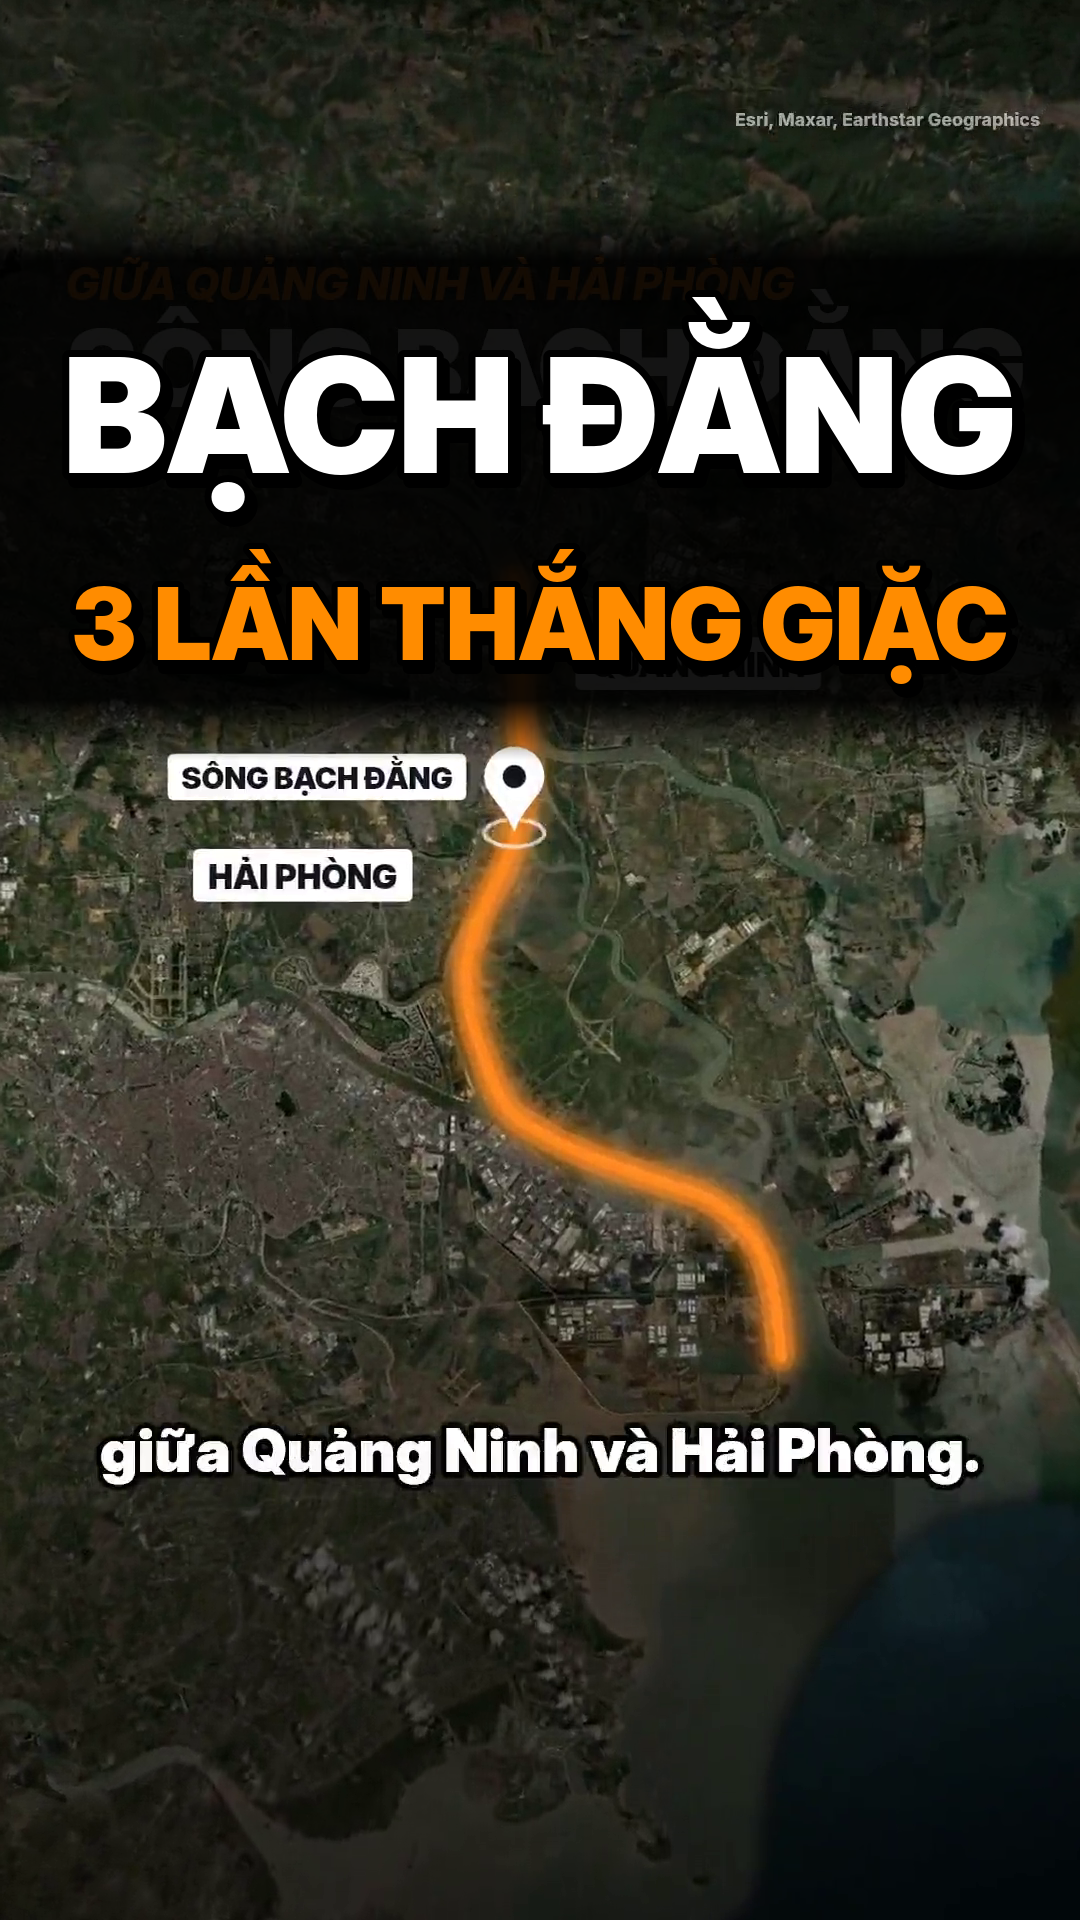
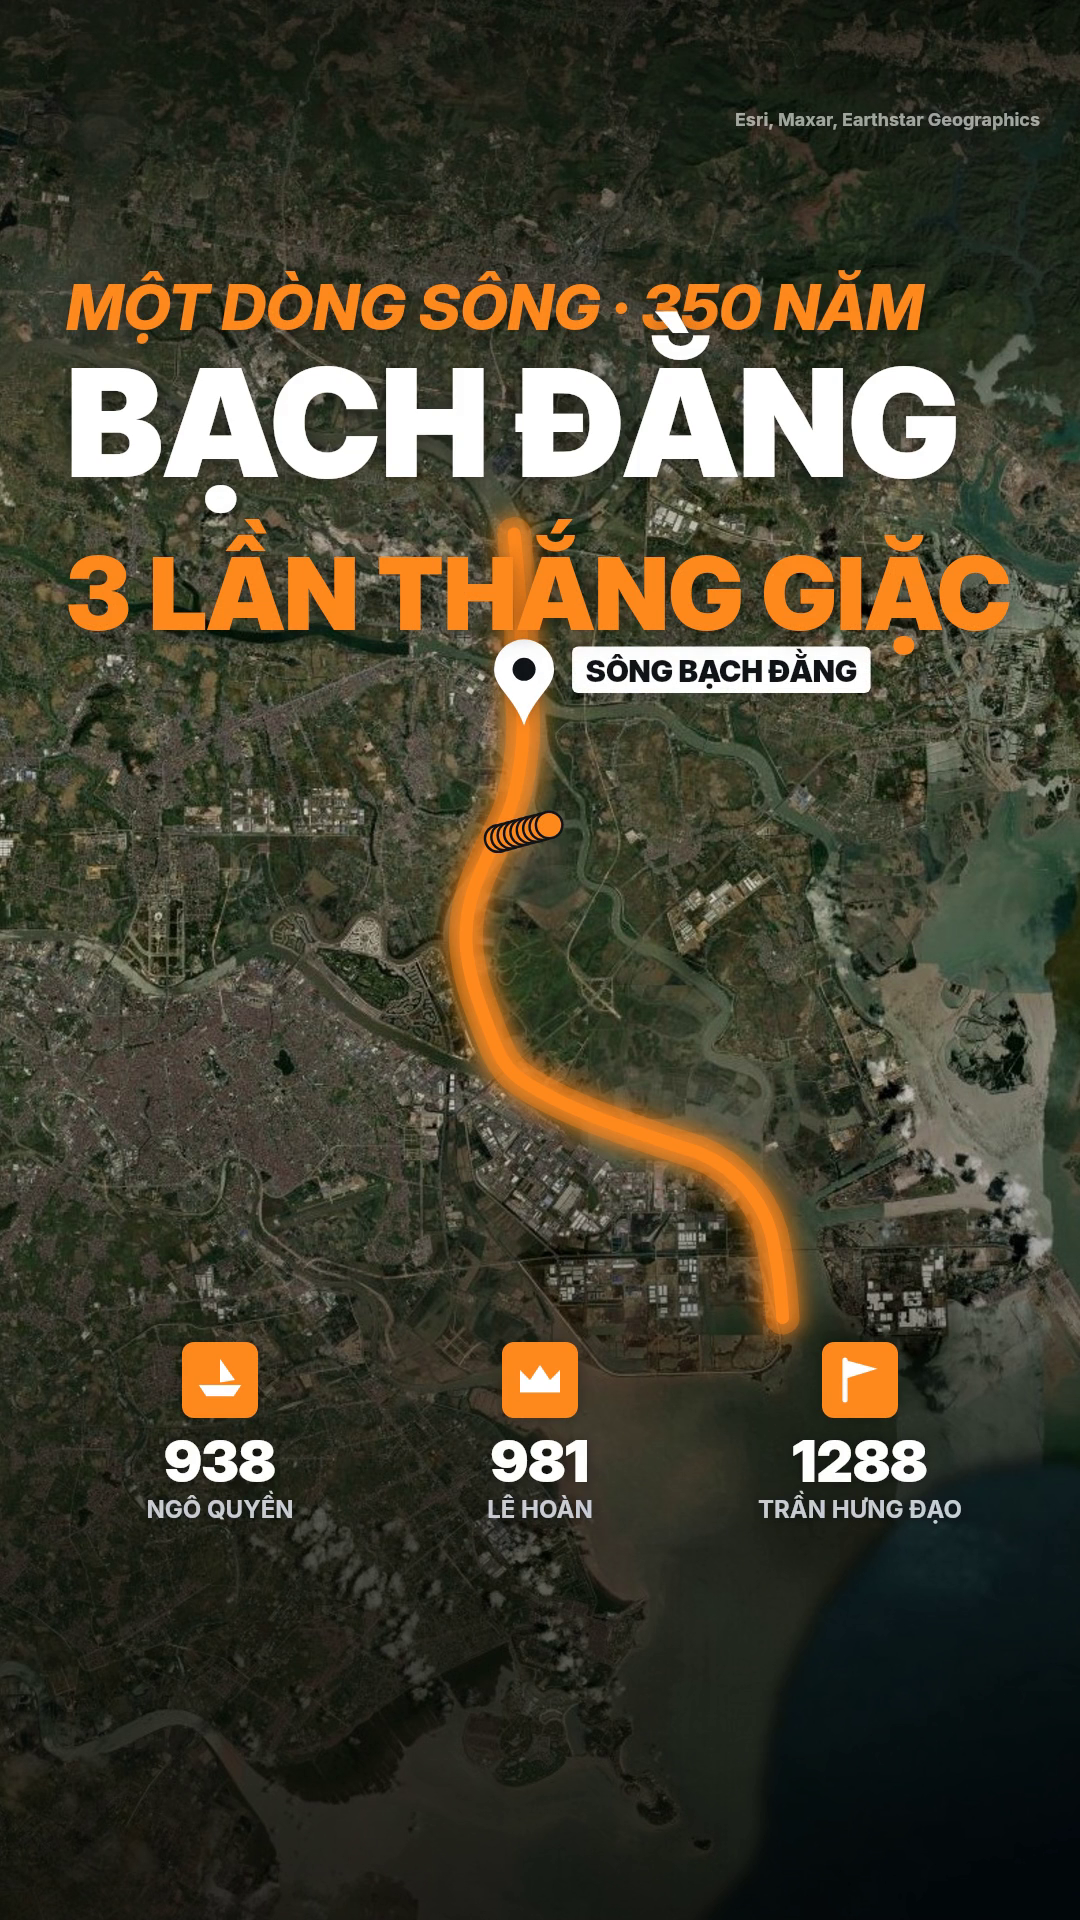
Bạch Đằng (ve-tinh): bộ đăng bài, ảnh bìa render bằng engine, chờ duyệt
Claude-Session: https://claude.ai/code/session_01LP61bnV4cz8eUStyAcVpze

diff --git a/projects/bach-dang-ve-tinh/publish.md b/projects/bach-dang-ve-tinh/publish.md
@@ -1,0 +1,70 @@
+# Phát hành: Sông Bạch Đằng, một dòng sông ba lần thắng giặc
+
+- Video: `output/bach-dang-ve-tinh.mp4` (1080×1920, 63,3 s)
+- Ảnh bìa: `output/thumbnail.png` (1080×1920)
+- Trạng thái: **chưa đăng**. Chờ người dùng duyệt.
+
+## 1. Năm tiêu đề (≤60 ký tự)
+
+1. **Câu hỏi:** Vì sao một dòng sông ghi ba chiến thắng? (40)
+2. **Con số:** 3 trận, 350 năm, một dòng sông: Bạch Đằng (41)
+3. **Nghịch lý:** Nhìn từ vũ trụ, nó chỉ là một vệt nước nhỏ (42)
+4. **Cảm xúc:** Cọc gỗ hơn 700 năm vẫn còn, sông vẫn kể chuyện (46)
+5. **Thẳng thắn:** Sông Bạch Đằng: ba lần đánh bại quân xâm lược (45)
+
+## 2. Mô tả TikTok
+
+Ba lần quân xâm lược thất bại trên cùng một dòng sông. Cọc gỗ 938, 981, 1288 và chuyện thủy triều. Xem đến cuối để biết trận nào đáng nể nhất.
+
+(Đoạn trên: 150 ký tự đầu là phần quan trọng nhất.)
+
+Hashtag: #LichSuVietNam #SongBachDang #TranHungDao #NgoQuyen #LichSu
+
+## 3. Mô tả YouTube Shorts
+
+Sông Bạch Đằng, giữa Quảng Ninh và Hải Phòng, gắn với ba trận: năm 938 (Ngô Quyền), năm 981 (Lê Hoàn) và năm 1288 (Trần Hưng Đạo). Ở cả ba trận, cọc gỗ và thủy triều đóng vai trò chính. Bãi cọc ở Quảng Yên được đo tuổi bằng các-bon phóng xạ, thế kỷ 13, khớp năm 1288.
+
+Nguồn tham khảo: en.wikipedia.org (Battle of Bạch Đằng, Battle of Bạch Đằng (1288)); tienphong.vn, nhandan.vn, news.laodong.vn (bãi cọc Quảng Yên).
+
+#Shorts #LichSuVietNam #SongBachDang #TranHungDao #BachDang
+
+## 4. Bình luận ghim
+
+Theo bạn, trận nào đáng nể nhất: 938, 981 hay 1288?
+
+## 5. Lịch đăng gợi ý
+
+- Khung tối 19–22h, hoặc trưa 11–13h (giờ Việt Nam).
+- Đây là gợi ý chung cho khán giả Việt Nam, **không phải số liệu riêng của kênh**. Nên xem thống kê kênh sau vài video đầu để chọn khung giờ thật.
+
+## 6. Ghi nguồn (bắt buộc)
+
+**Ảnh vệ tinh:** Esri, Maxar, Earthstar Geographics (Esri World Imagery, nguồn `sat/satmap.json`).
+
+**Ảnh Wikimedia Commons:**
+
+1. Cọc Bạch Đằng: tác giả Bùi Thụy Đào Nguyên · CC BY-SA 3.0 · https://commons.wikimedia.org/wiki/File:C%E1%BB%8Dc_B%E1%BA%A1ch_%C4%90%E1%BA%B1ng.jpg
+2. Tran Hung Dao Statue in Nam Dinh City of Vietnam: tác giả VNP - An Apple of Newton · CC BY-SA 3.0 · https://commons.wikimedia.org/wiki/File:Tran_Hung_Dao_Statue_in_Nam_Dinh_City_of_Vietnam.JPG
+3. Cửa sông Bạch Đằng: tác giả Viethavvh · Public domain · https://commons.wikimedia.org/wiki/File:Cua_song_Bach_Dang.JPG
+4. Stakes Used to Repel Mongol Invasion at Bach Dang River, 1288: tác giả Gary Todd · CC0 · https://commons.wikimedia.org/wiki/File:Stakes_Used_to_Repel_Mongol_Invasion_at_Bach_Dang_River%2C_1288_%289735656156%29.jpg
+5. Model of Battle in Bach Dang River in 938 AD: tác giả Daderot · CC0 · https://commons.wikimedia.org/wiki/File:Model_of_Battle_in_Bach_Dang_River_in_938_AD_-_DSC05544.JPG
+6. Le général Le Hoan (Hoa Lu): tác giả Jean-Pierre Dalbéra · CC BY 2.0 · https://commons.wikimedia.org/wiki/File:Le_g%C3%A9n%C3%A9ral_Le_Hoan_%28Hoa_Lu%29_%284365684079%29.jpg
+7. Tran Hung Dao (1129-1300) Defeated Mongol Invasion at Bach Dang, 1288: tác giả Gary Todd · CC0 · https://commons.wikimedia.org/wiki/File:Tran_Hung_Dao_%281129-1300%29_Defeated_Mongol_Invasion_at_Bach_Dang%2C_1288_%289732105763%29.jpg
+
+Ghi chú: thông tin tác giả và giấy phép lấy từ `photos/commons.json`, xác minh qua kết quả tìm kiếm trang File: trên Commons ngày 09/11/2026. Trước khi đăng, nên mở lại từng trang để chắc chắn.
+
+## 7. Ghi chú nguồn (để trả lời bình luận)
+
+Dữ kiện đã kiểm chứng (chi tiết trong `sources.md`):
+
+- Sông Bạch Đằng nằm giữa Quảng Ninh (Quảng Yên) và Hải Phòng (Thủy Nguyên).
+- **938:** Ngô Quyền đóng cọc gỗ bịt sắt dưới lòng sông. Triều lên nhử thủy quân Nam Hán vào. Triều rút, thuyền giặc đâm cọc vỡ, Lưu Hoằng Tháo chết.
+- **981:** thủy quân Tống tiến vào Bạch Đằng. Lê Hoàn đánh bại cuộc xâm lược, tướng Hầu Nhân Bảo bị giết.
+- **1288:** Trần Hưng Đạo dùng lại cọc gỗ và thủy triều. Thuyền Nguyên bị giữ đến khi nước ròng, vỡ đắm nhiều. Ô Mã Nhi bị bắt sống.
+- Ba bãi cọc Yên Giang, Đồng Má Ngựa, Đồng Vạn Muối ở Quảng Yên. Đo C14 cho thế kỷ 13.
+
+Lưu ý khi trả lời bình luận:
+
+- Câu "ba lần thắng giặc" theo cách sử học Việt Nam thường kể. Với trận 981, sử Trung Quốc ghi một trận thắng nhỏ của thủy quân Lưu Trừng trên sông. Video không khẳng định có trận thắng trên sông năm 981, chỉ nói Lê Hoàn đánh bại cuộc xâm lược.
+- Số quân, số thuyền, ngày tháng cụ thể của trận 1288 có nhiều nguồn ghi khác nhau. Video không đưa vào.
+- Vị trí tọa độ trên bản đồ chỉ gần đúng (sai số 1–3 km). Các vị trí bãi cọc 938 và đường tiến quân là minh họa.

diff --git a/projects/bach-dang-ve-tinh/qa.md b/projects/bach-dang-ve-tinh/qa.md
@@ -8,6 +8,6 @@
 | Phụ đề | 43 cụm, khớp từng chữ với narration.txt; vùng y 1450, không bị số liệu hay ảnh che |
 | Dữ kiện | Mọi câu có trong sources.md. Câu 2 đã đổi sang bản chặt hơn về trận 981 |
 | Bản đồ | Đường sông, đường tiến của thuyền giặc và bãi cọc dò lại trên ảnh Esri z14, đi đúng lòng sông và ra cửa Nam Triệu. Vị trí bãi cọc 938, đường tiến quân Tống, vùng bãi cọc Quảng Yên và Yên Giang đều ghi rõ "minh họa" hoặc "gần đúng" |
-| Ảnh | 7 ảnh Commons có tác giả và giấy phép (CC0, PD, CC BY 2.0, CC BY-SA 3.0), ghi ngay dưới thẻ ảnh. Đã loại 4 ảnh chưa rõ giấy phép |
+| Ảnh | 7 ảnh Commons (6 tác giả) có tác giả và giấy phép (CC0, PD, CC BY 2.0, CC BY-SA 3.0), ghi ngay dưới thẻ ảnh. Đã loại 4 ảnh chưa rõ giấy phép |
 | Bố cục | Đã sửa: thẻ ảnh che dòng phụ (cảnh 938, Ô Mã Nhi), mây che tiêu đề, dòng chữ nhỏ tràn mép, nhãn tràn mép phải, đường ranh giữa hai lớp ảnh vệ tinh khi zoom |
 | Còn lưu ý | Không có nhạc nền (chưa có nhạc có giấy phép), chỉ có sfx. Mây ở cảnh 2 hơi mờ nhòe |

diff --git a/studio/topics.md b/studio/topics.md
@@ -20,3 +20,4 @@ Trạng thái: `ý tưởng` → `đang làm` → `xong` → `đã đăng`. Nhà
 | 14 | Cổ tích | Sự tích Ông Công Ông Táo | Vì sao cá chép đưa ông Táo lên trời? (style: dan-gian) trend 2026-11-08, hạn 29/01 (kiểm lại ngày 23 tháng Chạp) | ý tưởng | |
 | 15 | Ngụ ngôn | Ếch ngồi đáy giếng | Thế giới của bạn to bằng cái miệng giếng (style: giay-muc) trend 2026-11-08 | ý tưởng | |
 | 16 | Địa lý | Rừng Amazon | Yêu cầu từ app (style: ban-do-toi) | đang làm | projects/rung-amazon |
+| 17 | Lịch sử VN | Sông Bạch Đằng, 3 lần thắng giặc (vệ tinh) | Nhìn từ vũ trụ, nó chỉ là một vệt nước nhỏ (style: ve-tinh, ảnh thật) | chờ duyệt | projects/bach-dang-ve-tinh |
